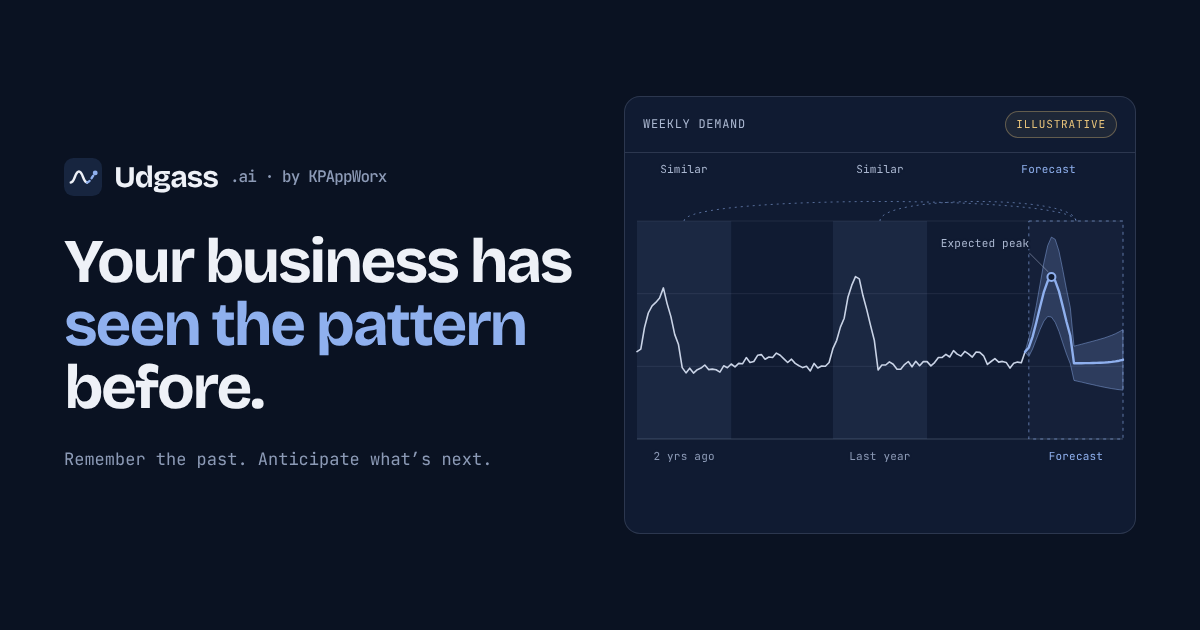
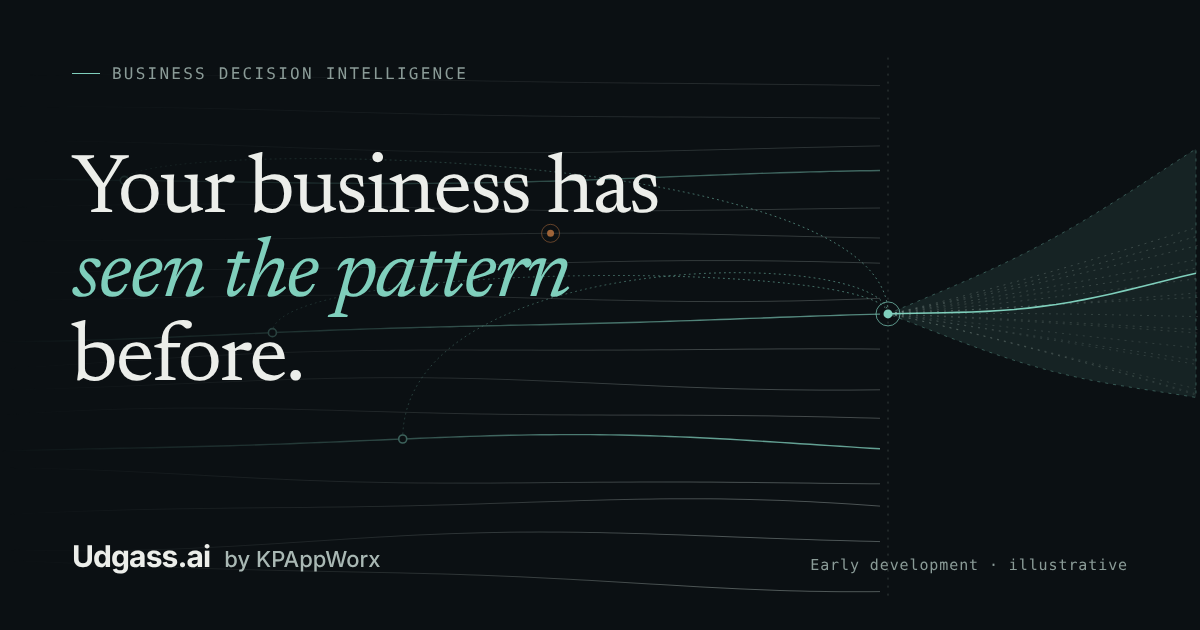
Udgass: new share image matching the Strata identity
Claude-Session: https://claude.ai/code/session_01V2ud1V9xm3gfAnGNMTTkXX

diff --git a/udgass.html b/udgass.html
@@ -14,7 +14,7 @@
 <meta property="og:image" content="https://www.kpappworx.com/assets/img/udgass-og.png" />
 <meta property="og:image:width" content="1200" />
 <meta property="og:image:height" content="630" />
-<meta property="og:image:alt" content="Udgass.ai: a historical demand curve continuing into a forecast range. Illustrative." />
+<meta property="og:image:alt" content="Udgass.ai: layered business history with traces from similar past periods leading to a widening forecast range. Illustrative." />
 <meta name="twitter:card" content="summary_large_image" />
 <meta name="twitter:title" content="Udgass.ai — Business Decision Intelligence Engine" />
 <meta name="twitter:description" content="A business decision intelligence engine from KPAppWorx, starting with demand and inventory. In early development. Join the early-access list." />
